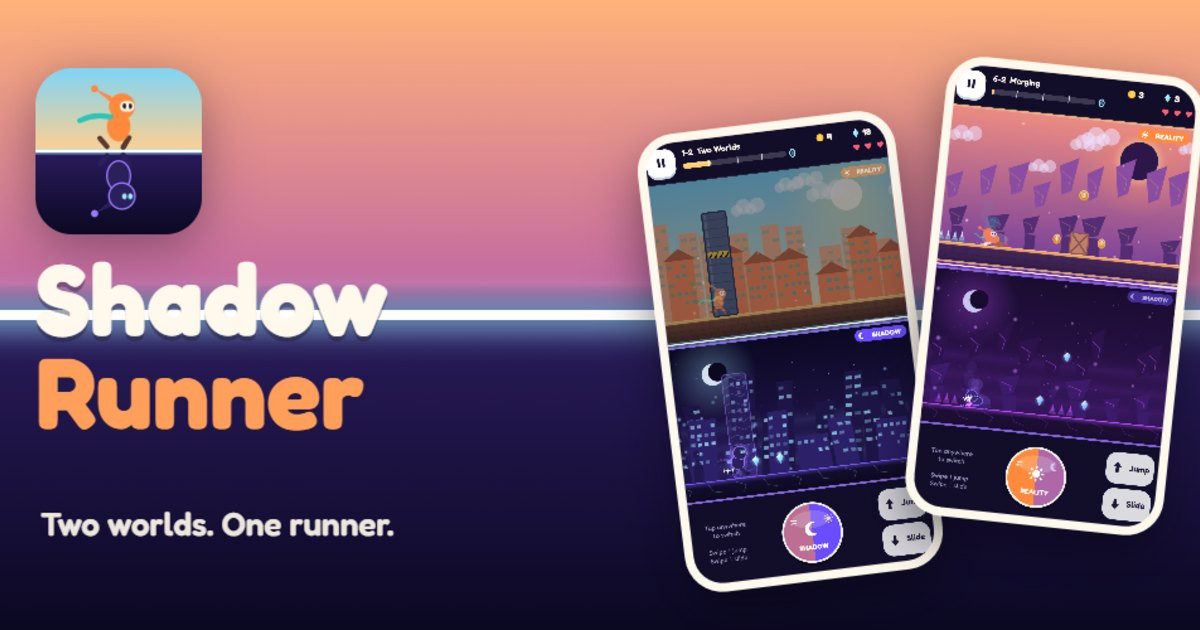
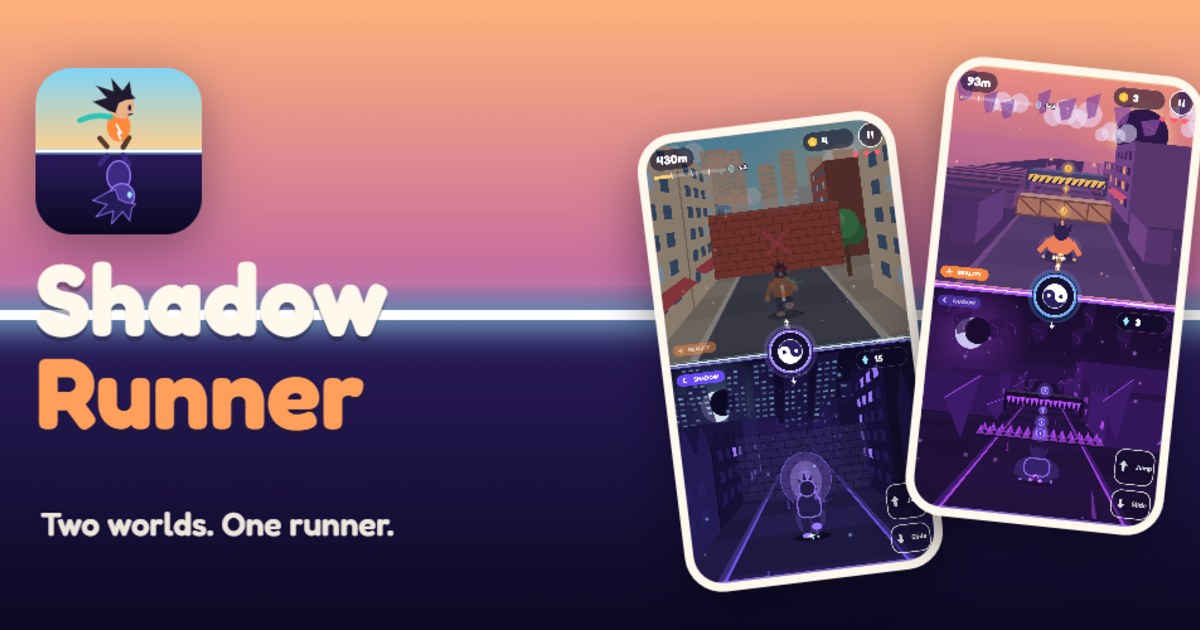
Update the site for the new chase-camera look
New screenshots, icons, favicon and share image from the redesigned game;
the how-to-play demo now shows both worlds from behind the runner with the
switch orb on the seam; new four-step 'How it works' strip.

Changed region(s): [[0.5242, 0.0905, 1.0, 0.9349], [0.0617, 0.2413, 0.1233, 0.3619], [0.0617, 0.1206, 0.1233, 0.2111]]

diff --git a/index.html b/index.html
@@ -200,33 +200,43 @@
         <button class="demo" id="demo" type="button" data-active="reality" aria-pressed="false" aria-describedby="demo-msg" aria-label="Switch worlds. Active: Reality">
           <span class="lane reality" aria-hidden="true">
             <span class="pill-label">☀ REALITY</span>
-            <span class="prop wall"></span>
-            <span class="prop coin"></span>
-            <span class="prop coin two"></span>
-            <svg class="runner" viewBox="0 0 54 70" aria-hidden="true">
-              <path d="M27 4 l-3 10" stroke="#e8702f" stroke-width="3" stroke-linecap="round"/><circle cx="27" cy="4" r="3.5" fill="#e8702f"/>
-              <path d="M10 40 C0 36 -2 44 -4 46" stroke="#3fc7c0" stroke-width="5" fill="none" stroke-linecap="round"/>
-              <circle cx="27" cy="24" r="12" fill="#ff8a3d"/>
-              <rect x="16" y="32" width="22" height="22" rx="10" fill="#ff8a3d"/>
-              <rect x="13" y="36" width="26" height="6" rx="3" fill="#3fc7c0"/>
-              <circle cx="27" cy="22" r="2.4" fill="#2a1b5c"/><circle cx="34" cy="22" r="2.4" fill="#2a1b5c"/>
-              <path d="M20 54 l-6 12 M34 54 l6 12" stroke="#2a1b5c" stroke-width="5" stroke-linecap="round"/>
+            <span class="sky"></span>
+            <span class="bldg left"></span><span class="bldg right"></span>
+            <span class="road"><span class="dash"></span><span class="dash d2"></span><span class="dash d3"></span></span>
+            <span class="prop wall"></span><span class="prop coin"></span><span class="prop coin two"></span>
+            <svg class="runner" viewBox="0 0 60 84" aria-hidden="true">
+              <ellipse cx="30" cy="81" rx="16" ry="3" fill="#000" opacity=".3"/>
+              <rect x="19" y="50" width="9" height="24" rx="4" fill="#23243a"/>
+              <rect x="32" y="50" width="9" height="18" rx="4" fill="#23243a"/>
+              <ellipse cx="23.5" cy="77" rx="6" ry="3.5" fill="#f4f1e8"/><ellipse cx="36.5" cy="70" rx="6" ry="4.5" fill="#f4f1e8"/>
+              <path d="M16 30 L9 46 M44 30 L50 40" stroke="#ff8a3d" stroke-width="6" stroke-linecap="round"/>
+              <rect x="15" y="26" width="30" height="28" rx="9" fill="#ff8a3d"/>
+              <path d="M31 32 l-5 7 h5 l-3 7" stroke="#fff" stroke-width="2.5" fill="none" stroke-linejoin="round"/>
+              <path d="M38 27 q8 2 14 -2" stroke="#2ec4b6" stroke-width="4" fill="none" stroke-linecap="round"/>
+              <circle cx="30" cy="17" r="10" fill="#1f1a2e"/>
+              <path d="M20 16 L12 6 L23 9 L22 0 L29 7 L34 -1 L36 8 L46 4 L40 15 Z" fill="#1f1a2e"/>
             </svg>
           </span>
           <span class="lane shadow" aria-hidden="true">
             <span class="pill-label">☾ SHADOW</span>
-            <span class="prop ghost-wall"></span>
-            <span class="prop beam"></span>
-            <span class="prop crystal"></span>
-            <span class="prop crystal two"></span>
-            <svg class="runner" viewBox="0 0 54 70" aria-hidden="true">
-              <path d="M27 4 l-3 10" stroke="#9a7bff" stroke-width="3" stroke-linecap="round"/><path d="M24 0 l6 4 -6 4z" fill="#9a7bff"/>
-              <circle cx="27" cy="24" r="12" fill="#2a1b5c" stroke="#9a7bff" stroke-width="2.5"/>
-              <rect x="16" y="32" width="22" height="22" rx="10" fill="#2a1b5c" stroke="#9a7bff" stroke-width="2.5"/>
-              <circle cx="27" cy="22" r="2.6" fill="#9fe8ff"/><circle cx="34" cy="22" r="2.6" fill="#9fe8ff"/>
-              <path d="M20 54 l-6 12 M34 54 l6 12" stroke="#7b5cff" stroke-width="5" stroke-linecap="round"/>
+            <span class="sky"></span>
+            <span class="bldg left"></span><span class="bldg right"></span>
+            <span class="road"><span class="dash"></span><span class="dash d2"></span><span class="dash d3"></span></span>
+            <span class="prop ghost-wall"></span><span class="prop beam"></span><span class="prop crystal"></span><span class="prop crystal two"></span>
+            <svg class="runner" viewBox="0 0 60 84" aria-hidden="true">
+              <ellipse cx="30" cy="81" rx="16" ry="3" fill="#000" opacity=".3"/>
+              <rect x="19" y="50" width="9" height="24" rx="4" fill="#1c1446"/>
+              <rect x="32" y="50" width="9" height="18" rx="4" fill="#1c1446"/>
+              <ellipse cx="23.5" cy="77" rx="6" ry="3.5" fill="#9a7bff"/><ellipse cx="36.5" cy="70" rx="6" ry="4.5" fill="#9a7bff"/>
+              <path d="M16 30 L9 46 M44 30 L50 40" stroke="#2a1b5c" stroke-width="6" stroke-linecap="round"/>
+              <rect x="15" y="26" width="30" height="28" rx="9" fill="#2a1b5c" stroke="#9a7bff" stroke-width="2"/>
+              
+              <path d="M38 27 q8 2 14 -2" stroke="#9a7bff" stroke-width="4" fill="none" stroke-linecap="round" opacity=".7"/>
+              <circle cx="30" cy="17" r="10" fill="#241a55" stroke="#9a7bff" stroke-width="2"/>
+              <path d="M20 16 L12 6 L23 9 L22 0 L29 7 L34 -1 L36 8 L46 4 L40 15 Z" fill="#241a55" stroke="#9a7bff" stroke-width="1.5"/>
             </svg>
           </span>
+          <span class="orb" aria-hidden="true"></span>
         </button>
 
         <p class="demo-msg" id="demo-msg" aria-live="polite"><strong>Reality is active.</strong> Walls stop your physical self. Collect coins up here.</p>
@@ -243,6 +253,21 @@
     </div>
   </section>
 
+  <!-- How it works: four steps -->
+  <section id="steps" aria-label="How Shadow Runner works">
+    <div class="wrap">
+      <span class="kicker reveal">How it works</span>
+      <h2 class="reveal" style="--i:1">Switch realities. Master both worlds.</h2>
+      <ol class="steps">
+        <li class="step reveal" style="--i:0"><div class="phone"><img src="assets/phone/04-neon.webp" width="540" height="960" loading="lazy" alt="Neon City: the runner on a bright street above, the shadow on a dark street below"></div><b>1</b><h3>Dual worlds</h3><p>Both worlds exist. Switch any time.</p></li>
+        <li class="step reveal" style="--i:1"><div class="phone"><img src="assets/phone/01-switch-worlds.webp" width="540" height="960" loading="lazy" alt="A brick wall blocks the street above; below, a cracked shadow wall the shadow can phase through"></div><b>2</b><h3>Switch to solve</h3><p>Some obstacles stop you here… but not there.</p></li>
+        <li class="step reveal" style="--i:2"><div class="phone"><img src="assets/phone/02-light.webp" width="540" height="960" loading="lazy" alt="A column of golden light floods the shadow street ahead"></div><b>3</b><h3>Know when to switch</h3><p>Light destroys the shadow. Use both worlds to survive.</p></li>
+        <li class="step reveal" style="--i:3"><div class="phone"><img src="assets/phone/05-eclipse.webp" width="540" height="960" loading="lazy" alt="The Eclipse: rooftops at sunset above and floating shards below as the worlds merge"></div><b>4</b><h3>Run together</h3><p>Master both worlds. Reach the portal.</p></li>
+      </ol>
+      <p class="tagline reveal">Two forms. Two worlds. <span>One run.</span></p>
+    </div>
+  </section>
+
   <!-- Gallery -->
   <section id="screenshots" style="padding-top:24px">
     <div class="wrap">
@@ -252,12 +277,12 @@
     </div>
     <div class="gallery-wrap">
       <div class="gallery" id="gallery" tabindex="0" role="region" aria-label="Screenshots, scroll horizontally">
-        <figure class="shot reveal" style="--i:0"><div class="phone"><img src="assets/phone/01-switch-worlds.webp" width="540" height="960" loading="lazy" alt="Level 1-2 Two Worlds: the runner stops at a wall in the sunny city while the shadow walks through it in the dark world"></div><figcaption><h3>Switch worlds</h3><p>One tap swaps control.</p></figcaption></figure>
-        <figure class="shot reveal" style="--i:1"><div class="phone"><img src="assets/phone/02-light.webp" width="540" height="960" loading="lazy" alt="Level 1-3 Lights Out: a street lamp shines a beam of light into the shadow world"></div><figcaption><h3>Mind the light</h3><p>Bright light destroys your shadow.</p></figcaption></figure>
-        <figure class="shot reveal" style="--i:2"><div class="phone"><img src="assets/phone/03-cross-world.webp" width="540" height="960" loading="lazy" alt="Level 2-1 Root Gate in Parallel Park: a gate blocks the runner above while the shadow collects crystals below"></div><figcaption><h3>Cross-world puzzles</h3><p>Act below to open the way above.</p></figcaption></figure>
-        <figure class="shot reveal" style="--i:3"><div class="phone"><img src="assets/phone/04-neon.webp" width="540" height="960" loading="lazy" alt="Level 3-1 Laser Lane in Neon City: the runner collects a coin under a laser"></div><figcaption><h3>Neon City</h3><p>Lasers, trains, fast choices.</p></figcaption></figure>
-        <figure class="shot reveal" style="--i:4"><div class="phone"><img src="assets/phone/05-eclipse.webp" width="540" height="960" loading="lazy" alt="Level 6-2 Merging in The Eclipse: both worlds turn purple as they begin to merge"></div><figcaption><h3>The Eclipse</h3><p>The worlds collide.</p></figcaption></figure>
-        <figure class="shot reveal" style="--i:5"><div class="phone"><img src="assets/phone/06-temple.webp" width="540" height="960" loading="lazy" alt="Level 5-3 Beam Chamber in the Sunken Temple: light beams cut through the underwater shadow world"></div><figcaption><h3>Sunken Temple</h3><p>Old stones, deep water.</p></figcaption></figure>
+        <figure class="shot reveal" style="--i:0"><div class="phone"><img src="assets/phone/01-switch-worlds.webp" width="540" height="960" loading="lazy" alt="Level 1-2 Two Worlds, seen from behind the runner: a brick wall blocks the sunny street above while the shadow runs towards a cracked, glowing wall it can pass through below"></div><figcaption><h3>Switch worlds</h3><p>One tap swaps control.</p></figcaption></figure>
+        <figure class="shot reveal" style="--i:1"><div class="phone"><img src="assets/phone/02-light.webp" width="540" height="960" loading="lazy" alt="Level 1-3 Lights Out: the runner races down a city street above while a column of light waits on the dark street below"></div><figcaption><h3>Mind the light</h3><p>Bright light destroys your shadow.</p></figcaption></figure>
+        <figure class="shot reveal" style="--i:2"><div class="phone"><img src="assets/phone/03-cross-world.webp" width="540" height="960" loading="lazy" alt="Level 2-1 Root Gate in Parallel Park: a wall on the park path above and a gate across the shadow path below"></div><figcaption><h3>Cross-world puzzles</h3><p>Act below to open the way above.</p></figcaption></figure>
+        <figure class="shot reveal" style="--i:3"><div class="phone"><img src="assets/phone/04-neon.webp" width="540" height="960" loading="lazy" alt="Level 3-1 Laser Lane in Neon City: a neon street with crates ahead above and spikes on the dark street below"></div><figcaption><h3>Neon City</h3><p>Lasers, trains, fast choices.</p></figcaption></figure>
+        <figure class="shot reveal" style="--i:4"><div class="phone"><img src="assets/phone/05-eclipse.webp" width="540" height="960" loading="lazy" alt="Level 6-2 Merging in The Eclipse: rooftops at sunset above, floating shards and spikes below"></div><figcaption><h3>The Eclipse</h3><p>The worlds collide.</p></figcaption></figure>
+        <figure class="shot reveal" style="--i:5"><div class="phone"><img src="assets/phone/06-temple.webp" width="540" height="960" loading="lazy" alt="Level 5-3 Beam Chamber in the Sunken Temple: stone walls above, light beams in the underwater shadow world below"></div><figcaption><h3>Sunken Temple</h3><p>Old stones, deep water.</p></figcaption></figure>
         <figure class="shot reveal" style="--i:6"><div class="phone"><img src="assets/phone/07-worlds.webp" width="540" height="960" loading="lazy" alt="World select screen showing all six worlds with star progress"></div><figcaption><h3>Six worlds</h3><p>30 handcrafted levels.</p></figcaption></figure>
         <figure class="shot reveal" style="--i:7"><div class="phone"><img src="assets/phone/08-collection.webp" width="540" height="960" loading="lazy" alt="Collection screen with runner costumes and tabs for shadow forms, trails, switch effects and portals"></div><figcaption><h3>Your collection</h3><p>Costumes, trails, effects. Cosmetic only.</p></figcaption></figure>
       </div>

diff --git a/assets/style.css b/assets/style.css
@@ -267,47 +267,88 @@ main { position: relative; z-index: 0; }
   border-radius: 22px; overflow: hidden; background: var(--night);
   box-shadow: 0 0 0 2px var(--hairline);
 }
-.lane { display: block; position: relative; height: 150px; overflow: hidden; transition: filter .35s, opacity .35s; }
-.lane.reality { background: linear-gradient(180deg, #ffd9b0, var(--sun-2)); }
-.lane.shadow { background: linear-gradient(180deg, var(--night-2), var(--night)); }
+.demo { position: relative; }
+.lane { display: block; position: relative; height: 210px; overflow: hidden; transition: filter .35s, opacity .35s; }
+.lane > span { display: block; position: absolute; }
+.lane .sky { inset: 0 0 58% 0; }
+.lane.reality { background: #b9aa98; }
+.lane.reality .sky { background: linear-gradient(180deg, #7fd4f5, #ffe3b3); }
+.lane.shadow { background: #221a46; }
+.lane.shadow .sky { background: linear-gradient(180deg, #0b0822, #2a1b5c); }
 .lane + .lane { border-top: 3px solid var(--cream); box-shadow: inset 0 6px 14px -6px rgba(159, 232, 255, .8); }
-.lane::after {
-  content: ""; position: absolute; left: 0; right: 0; bottom: 0; height: 22px;
-  background: repeating-linear-gradient(90deg, rgba(0, 0, 0, .14) 0 28px, transparent 28px 56px);
-  animation: ground 1s linear infinite;
-}
-.lane.reality::after { background-color: #b5653a; }
-.lane.shadow::after { background-color: #2b2160; box-shadow: 0 -2px 0 var(--violet); }
-@keyframes ground { to { background-position: -56px 0; } }
-.lane .pill-label { display: block;
-  position: absolute; right: 12px; top: 12px; z-index: 2;
+/* Buildings lining the street, converging on the vanishing point. */
+.bldg { top: 0; bottom: 0; width: 50%; }
+.bldg.left { left: 0; clip-path: polygon(0 0, 96% 30%, 96% 44%, 0 100%); }
+.bldg.right { right: 0; clip-path: polygon(100% 0, 4% 30%, 4% 44%, 100% 100%); }
+.lane.reality .bldg.left { background: repeating-linear-gradient(0deg, transparent 0 12px, #c8684a 12px 20px), repeating-linear-gradient(90deg, #c8684a 0 14px, #4f6f94 14px 24px); }
+.lane.reality .bldg.right { background: repeating-linear-gradient(0deg, transparent 0 12px, #e2b48a 12px 20px), repeating-linear-gradient(90deg, #e2b48a 0 14px, #4f6f94 14px 24px); }
+.lane.shadow .bldg.left { background: repeating-linear-gradient(0deg, transparent 0 10px, #1b1442 10px 22px), repeating-linear-gradient(90deg, #1b1442 0 16px, #9a7bff 16px 22px); }
+.lane.shadow .bldg.right { background: repeating-linear-gradient(0deg, transparent 0 10px, #221a52 10px 22px), repeating-linear-gradient(90deg, #221a52 0 16px, #5a46a8 16px 22px); }
+.road { left: 0; right: 0; top: 42%; bottom: 0; clip-path: polygon(48% 0, 52% 0, 88% 100%, 12% 100%); }
+.lane.reality .road { background: #5c5e6b; }
+.lane.shadow .road { background: #1e1840; }
+.dash { width: 6px; height: 26px; left: 50%; margin-left: -3px; top: 0; transform-origin: 50% 0;
+  background: #f4f1e8; animation: dash 1.2s linear infinite; }
+.lane.shadow .dash { background: #7b5cff; }
+.dash.d2 { animation-delay: -.4s; } .dash.d3 { animation-delay: -.8s; }
+@keyframes dash { from { top: 0; transform: scale(.2); opacity: 0; } 20% { opacity: 1; } to { top: 100%; transform: scale(1.6); } }
+.lane .pill-label {
+  left: 12px; top: 12px; z-index: 3;
   font-size: 13px; font-weight: 700; letter-spacing: .08em; padding: 4px 12px; border-radius: 999px;
 }
-.lane.reality .pill-label { background: var(--sun); color: var(--night); }
+.lane.reality .pill-label { background: var(--sun); color: #fff; }
 .lane.shadow .pill-label { background: var(--violet); color: #fff; }
 .demo[data-active="reality"] .lane.shadow,
-.demo[data-active="shadow"] .lane.reality { filter: saturate(.35) brightness(.7); }
+.demo[data-active="shadow"] .lane.reality { filter: saturate(.35) brightness(.6); }
 .demo[data-active="reality"] .lane.shadow .pill-label::after,
 .demo[data-active="shadow"] .lane.reality .pill-label::after { content: " · idle"; font-weight: 600; }
 .demo[data-active="reality"] .lane.reality .pill-label::after,
 .demo[data-active="shadow"] .lane.shadow .pill-label::after { content: " · active"; }
 
-.runner { position: absolute; left: 14%; bottom: 20px; width: 54px; height: 70px; z-index: 2; animation: run .45s ease-in-out infinite alternate; }
-@keyframes run { to { translate: 0 -6px; } }
-.prop { display: block; position: absolute; bottom: 22px; z-index: 1; animation: scroll 5s linear infinite; }
-@keyframes scroll { from { left: 105%; } to { left: -15%; } }
-.wall { width: 38px; height: 96px; border-radius: 6px; background: #3a3463; box-shadow: inset 0 0 0 3px #26204a; }
-.wall::before { content: ""; position: absolute; left: 3px; right: 3px; top: 40%; height: 14px; background: repeating-linear-gradient(-45deg, #f2c94c 0 7px, #26204a 7px 14px); }
-.ghost-wall { width: 38px; height: 96px; border-radius: 6px; border: 2px dashed rgba(154, 123, 255, .8); background: rgba(123, 92, 255, .12); }
-.beam {
-  bottom: 22px; width: 60px; height: 128px;
-  background: linear-gradient(180deg, rgba(255, 236, 170, .1), rgba(255, 236, 170, .55));
-  clip-path: polygon(35% 0, 65% 0, 100% 100%, 0 100%); animation-delay: -2.4s;
+/* The runner, seen from behind. */
+.lane .runner { position: absolute; left: 50%; bottom: 8px; width: 60px; height: 84px; margin-left: -30px; z-index: 2; overflow: visible; animation: run .3s ease-in-out infinite alternate; }
+@keyframes run { to { translate: 0 -5px; } }
+/* Things come from the vanishing point towards the runner. */
+.lane .prop { left: 50%; top: 42%; z-index: 1; transform-origin: 50% 100%; animation: approach 3.2s cubic-bezier(.55, 0, 1, .45) infinite; }
+@keyframes approach {
+  0% { transform: translate(-50%, -100%) scale(.08); top: 42%; opacity: 0; }
+  12% { opacity: 1; }
+  88% { opacity: 1; }
+  100% { transform: translate(-50%, -100%) scale(1.25); top: 112%; opacity: 0; }
 }
-.coin { width: 18px; height: 18px; border-radius: 50%; background: #ffcf3d; box-shadow: inset 0 0 0 3px #e9a91a; bottom: 64px; animation-delay: -1.2s; }
-.coin.two { animation-delay: -3.7s; }
-.crystal { width: 16px; height: 22px; background: var(--glow); clip-path: polygon(50% 0, 100% 40%, 50% 100%, 0 40%); bottom: 56px; filter: drop-shadow(0 0 6px var(--glow)); animation-delay: -1.2s; }
-.crystal.two { animation-delay: -3.7s; }
+.lane .wall { width: 220px; height: 110px; border-radius: 4px;
+  background: repeating-linear-gradient(0deg, #8f3f2f 0 3px, #b5523f 3px 22px); }
+.lane .wall::before { content: "✕"; position: absolute; inset: 0; display: grid; place-items: center; color: #e0565b; font: 700 64px var(--font); opacity: .7; }
+.lane .ghost-wall { width: 220px; height: 110px; border-radius: 4px; border: 2px solid rgba(154, 123, 255, .9); animation-delay: -1.6s;
+  background: radial-gradient(ellipse 30% 45% at 50% 70%, rgba(201, 184, 255, .7), rgba(123, 92, 255, .25) 70%, rgba(40, 28, 90, .5)); }
+.lane .beam { width: 200px; height: 180px; animation-delay: -.2s; background: linear-gradient(180deg, rgba(255, 236, 170, .05), rgba(255, 220, 120, .6)); }
+.lane .coin { width: 26px; height: 26px; border-radius: 50%; background: #ffcf3d; box-shadow: inset 0 0 0 4px #e9a91a, 0 0 12px rgba(255, 207, 61, .6); animation-delay: -.8s; }
+.lane .coin.two { animation-delay: -2.4s; }
+.lane .crystal { width: 24px; height: 24px; border-radius: 50%; background: #5236c9; box-shadow: inset 0 0 0 3px #c9b8ff, 0 0 14px #9a7bff; animation-delay: -.8s; }
+.lane .crystal.two { animation-delay: -2.4s; }
+/* The switch orb on the seam, like the in-game button. */
+.orb { position: absolute; left: 50%; top: 50%; width: 58px; height: 58px; margin: -29px 0 0 -29px; z-index: 4; border-radius: 50%;
+  background: conic-gradient(from 90deg, #2a2060 0 50%, #fff 50% 100%);
+  border: 5px solid #141033; box-shadow: 0 0 0 4px #5aa8ff, 0 0 22px 6px rgba(90, 168, 255, .55); transition: transform .35s var(--ease), box-shadow .35s; }
+.orb::before, .orb::after { content: ""; position: absolute; top: 50%; width: 50%; height: 50%; margin-top: -25%; border-radius: 50%; }
+.orb::before { left: 0; background: radial-gradient(circle, #fff 0 18%, #2a2060 20%); }
+.orb::after { right: 0; background: radial-gradient(circle, #2a2060 0 18%, #fff 20%); }
+.demo[data-active="shadow"] .orb { transform: rotate(180deg); box-shadow: 0 0 0 4px #9a7bff, 0 0 22px 6px rgba(154, 123, 255, .55); }
+
+/* How it works: four steps */
+.steps { list-style: none; margin: 32px 0 0; padding: 0; display: grid; grid-template-columns: repeat(4, 1fr); gap: 22px; }
+.step { display: grid; grid-template-columns: 46px 1fr; column-gap: 12px; align-content: start; }
+.step .phone { grid-column: 1 / -1; }
+.step .phone { position: relative; width: 100%; border-radius: 28px; padding: 6px; }
+.step .phone img { display: block; border-radius: 23px; }
+.step b { display: grid; place-items: center; width: 46px; height: 46px; margin-top: 18px; grid-row: span 2;
+  font-size: 30px; font-style: italic; color: #fff; background: linear-gradient(135deg, #4f7dff, #7b5cff); border-radius: 12px; transform: skew(-8deg); }
+.step h3 { grid-column: 2; margin: 18px 0 2px; line-height: 1.2; font-size: 18px; letter-spacing: .04em; text-transform: uppercase; }
+.step p { grid-column: 2; margin: 0; color: var(--muted); font-size: 15px; line-height: 1.45; }
+.tagline { margin: 44px 0 0; text-align: center; letter-spacing: .4em; text-transform: uppercase; font-style: italic; color: var(--muted); font-size: 15px; }
+.tagline span { color: #6f9cff; }
+@media (max-width: 900px) { .steps { grid-template-columns: repeat(2, 1fr); } }
+@media (max-width: 460px) { .steps { gap: 18px 12px; } .step { grid-template-columns: 34px 1fr; column-gap: 8px; } .step b { width: 34px; height: 34px; font-size: 22px; border-radius: 9px; } .step h3 { font-size: 14px; } .step p { font-size: 13px; } .tagline { letter-spacing: .2em; } }
 .demo-msg { min-height: 3.4em; margin: 18px auto 0; max-width: 560px; color: var(--muted); font-size: 17px; }
 .demo-msg strong { color: var(--cream); }
 .btn {
@@ -493,9 +534,6 @@ footer p { margin: 14px 0 0; }
   html { scroll-behavior: auto; }
   *, *::before, *::after { animation: none !important; transition: none !important; }
   .js .reveal { opacity: 1; transform: none; }
-  .prop { left: auto; }
-  .wall, .ghost-wall { right: 30%; }
-  .beam { right: 12%; }
-  .coin, .crystal { right: 52%; }
-  .coin.two, .crystal.two { right: 62%; }
+  .lane .prop { transform: translate(-50%, -100%) scale(.45); top: 66%; opacity: 1; }
+  .lane .coin.two, .lane .crystal.two, .lane .beam { display: none; }
 }
